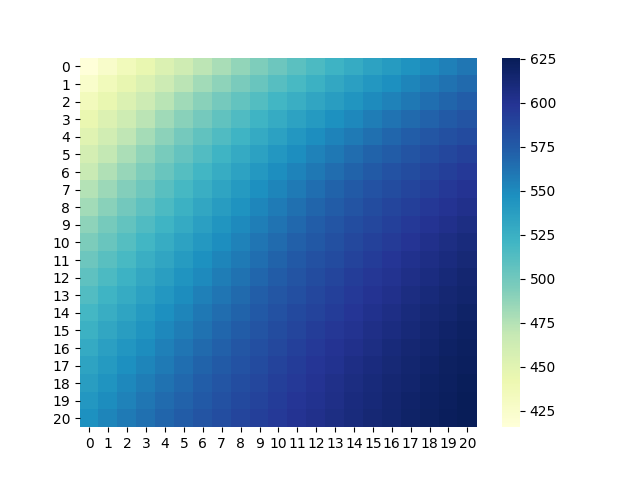
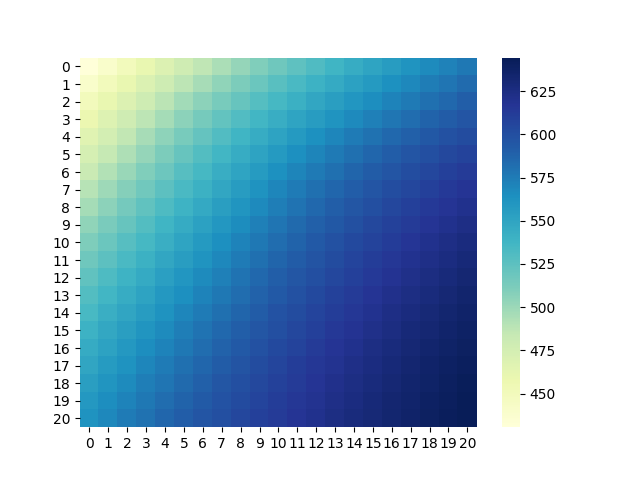
4.4

diff --git a/chap 4/4_4.py b/chap 4/4_4.py
@@ -37,8 +37,8 @@ def get_value_state(state, action, policy, value, constant = True):
     car_1 -= action
     car_2 += action
 
-    for request_1 in range(11):
-        for request_2 in range(11):
+    for request_1 in range(CFG.max_car + 1):
+        for request_2 in range(CFG.max_car + 1):
             prob_request = poisson_prob(request_1, CFG.expect_request_1) * poisson_prob(request_2, CFG.expect_request_2)
             valid_request_1 = min(car_1, request_1)
             valid_request_2 = min(car_2, request_2)
@@ -87,6 +87,7 @@ def get_optimal_value_map(policy, value):
 step = 0
 while(True):
     step += 1
+    print(f'Start value estimate for step {step}')
     value = get_optimal_value_map(policy, value)
     print(f'Done value estimate for step {step}')
     done = True
